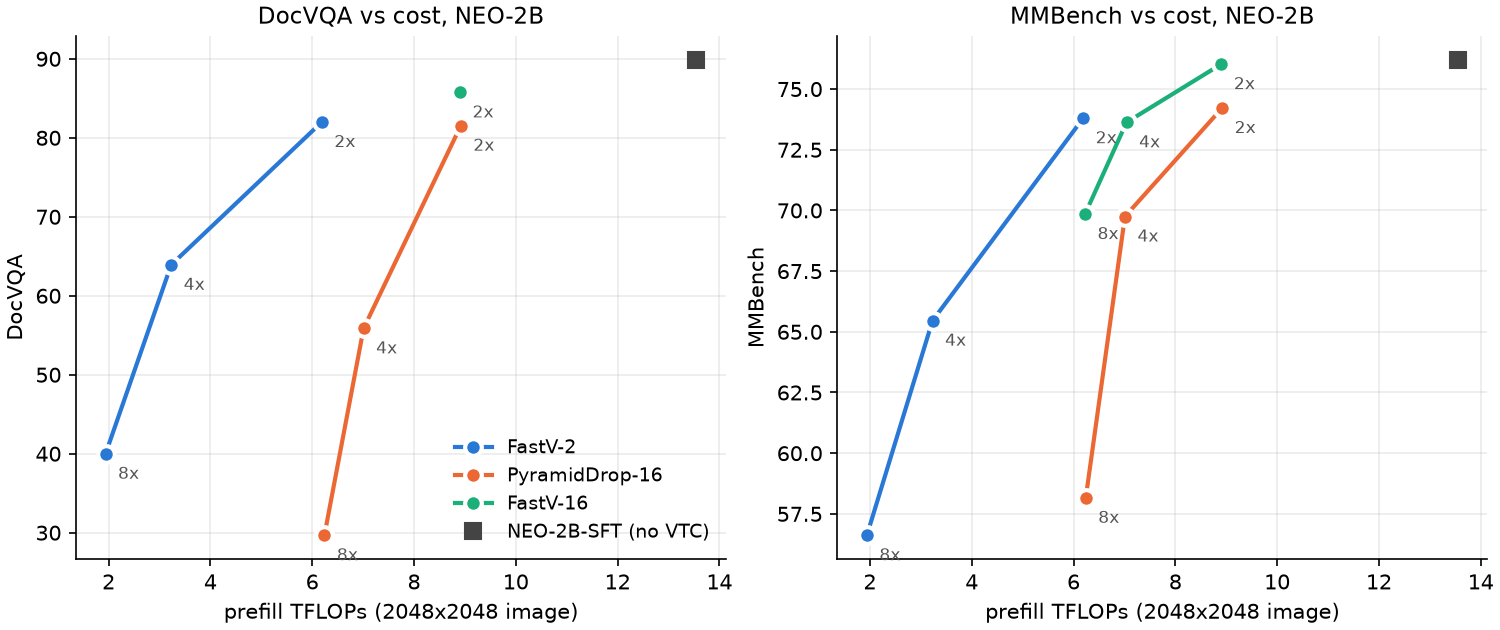
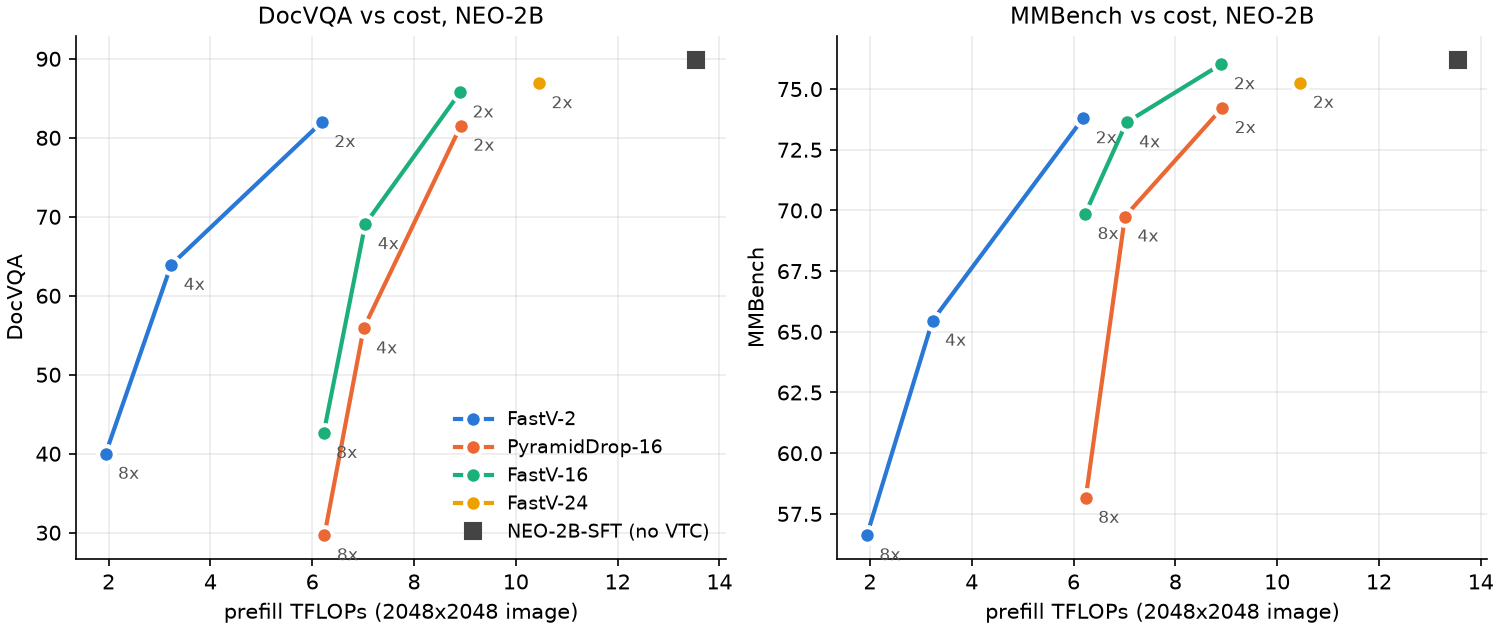
fastv-k16: e002 done (4x/8x DocVQA 69.07/42.63, 23/24 >= PDrop-16), e003 done (K=24 2x: DocVQA 86.92, OCRBench 44.3), FastV-24 flops row, paused

diff --git a/research/experiments/fastv-k16/figures/pareto.py b/research/experiments/fastv-k16/figures/pareto.py
@@ -12,8 +12,8 @@ BASE = {"tf": 13.55, "DocVQA": 89.86, "MMBench": 76.20}
 ROWS = {  # label: (color, [(ratio, tf, DocVQA, MMBench)])
     "FastV-2": ("#2a78d6", [(2, 6.19, 82.00, 73.80), (4, 3.23, 63.92, 65.46), (8, 1.94, 39.99, 56.62)]),
     "PyramidDrop-16": ("#eb6834", [(2, 8.92, 81.54, 74.22), (4, 7.01, 55.87, 69.75), (8, 6.24, 29.68, 58.16)]),
-    "FastV-16": ("#1baf7a", [(2, 8.905, 85.75, 76.03), (4, 7.042, None, 73.63), (8, 6.226, None, 69.85)]),
-    "FastV-24": ("#eda100", []),  # e003, filled when it lands
+    "FastV-16": ("#1baf7a", [(2, 8.905, 85.75, 76.03), (4, 7.042, 69.07, 73.63), (8, 6.226, 42.63, 69.85)]),
+    "FastV-24": ("#eda100", [(2, 10.456, 86.92, 75.26)]),  # e003, 2x only
 }
 
 fig, axes = plt.subplots(1, 2, figsize=(10, 4.2), constrained_layout=True)

diff --git a/research/experiments/fastv-k16/e002.md b/research/experiments/fastv-k16/e002.md
@@ -3,14 +3,14 @@ id: e002
 direction: fastv-k16
 batch: b001
 parent: e001
-status: submitted
+status: done
 created: 2026-11-07T00:00:00
 sha: 83a5b05c4ac2b13097f11764986aff14fd971202
 cluster: ascend
 jobs: [8387101, 8387102]
 config: {models: "NEO-2B-SFT-FastV-layer16-{2,4,8}x", suites: [general, ocr], tier: nextgen}
-metrics: {}
-gpu_hours: null
+metrics: {docvqa_2x: 85.75, docvqa_4x: 69.07, docvqa_8x: 42.63, mmb_2x: 76.03, mmb_4x: 73.63, mmb_8x: 69.85, ocrbench_2x: 61.6, textvqa_2x: 72.58, chartqa_2x: 77.64}
+gpu_hours: 11.77
 ---
 ## Hypothesis
 Moving FastV's single pruning step from layer 2 to layer 16 recovers most of the OCR gap to PyramidDrop-16 at
@@ -35,7 +35,10 @@ Job ids: 8387101 = general array (11 tasks), 8387102 = ocr array (12 tasks), bot
 Logs `logs/fk16-{general,ocr}_<id>_<idx>.log`; outputs in the checkout's `VLMEvalKit/outputs/`.
 
 ## Outcome
-Partial (arrays still in flight; record stays `submitted`, metrics filled when both arrays finish).
+Complete: 23/23 tasks COMPLETED rc=0 (general 8387101 2.56 GPU-h, ocr 8387102 9.21 GPU-h; total 11.77 GPU-h; plus the
+e001 RWQA 2x smoke). Final cells landed 2026-11-07 20:42: 8387102_5 4x DocVQA 69.07 (95 min), _8 8x TextVQA 52.50
+(46 min), _9 8x DocVQA 42.63 (91 min). Longest task 96.4 min (2x DocVQA), well under the 4 h limit.
+Earlier partial notes follow.
 - 8387101_2 (2x / MMMU_DEV_VAL) COMPLETED rc=0, 8.9 min (0.15 GPU-h). MMMU validation 47.56
   (base 48.33, FastV-2 2x 48.67, PDrop-16 2x 47.77). Log `logs/fk16-general_8387101_2.log`.
 - 8387101_0 (2x / MMBench_DEV_EN) COMPLETED rc=0, 23.5 min (0.39 GPU-h). MMBench dev Overall 76.03
@@ -59,18 +62,25 @@ Scores so far (2B, `summarize_table2.py` conventions; FastV-2 / PDrop-16 from th
 | ratio | MMB | MME | MMMU | RWQA | TextVQA | DocVQA | OCRBench | ChartQA | TF |
 |---|---|---|---|---|---|---|---|---|---|
 | 2x | 76.03 [73.80 / 74.22] | 1568.2 [1533.6 / 1536.4] | 47.56 [48.67 / 47.77] | 61.57 [59.61 / 57.90] | 72.58 [54.38 / 67.18] | **85.75** [82.00 / 81.54] | 61.6 [47.1 / 51.2] | 77.64 [79.20 / 63.04] | 8.91 |
-| 4x | 73.63 [65.46 / 69.75] | 1544.5 [1390.0 / 1439.6] | 47.33 [46.56 / 46.44] | 58.69 [55.56 / 51.50] | 66.86 [35.24 / 51.39] | pending [63.92 / 55.87] | 34.1 [16.4 / 20.9] | 53.80 [61.52 / 37.48] | 7.04 |
-| 8x | 69.85 [56.62 / 58.16] | 1471.8 [1160.3 / 1272.9] | 46.44 [43.33 / 45.55] | 55.56 [49.80 / 48.36] | pending [21.31 / 36.65] | pending [39.99 / 29.68] | 15.7 [7.3 / 8.5] | 23.96 [42.36 / 23.52] | 6.23 |
+| 4x | 73.63 [65.46 / 69.75] | 1544.5 [1390.0 / 1439.6] | 47.33 [46.56 / 46.44] | 58.69 [55.56 / 51.50] | 66.86 [35.24 / 51.39] | **69.07** [63.92 / 55.87] | 34.1 [16.4 / 20.9] | 53.80 [61.52 / 37.48] | 7.04 |
+| 8x | 69.85 [56.62 / 58.16] | 1471.8 [1160.3 / 1272.9] | 46.44 [43.33 / 45.55] | 55.56 [49.80 / 48.36] | 52.50 [21.31 / 36.65] | **42.63** [39.99 / 29.68] | 15.7 [7.3 / 8.5] | 23.96 [42.36 / 23.52] | 6.23 |
 
-Pareto PNG (DocVQA, MMBench vs TF; FastV-16 4x/8x DocVQA added when they land): `figures/pareto_2b.png` (`figures/pareto.py`).
+Pareto PNG (DocVQA, MMBench vs TF; all FastV-16 points plus FastV-24 2x from e003): `figures/pareto_2b.png` (`figures/pareto.py`).
 
 Prediction scoring so far:
 - 2x DocVQA 84 +/- 2 (0.6): **hit** (85.75). 2x MMBench 74.5 +/- 1 (0.6): **miss** high (76.03).
 - ChartQA at 4x/8x above PDrop-16's 37.5 / 23.5 (0.6): **hit** (53.80 / 23.96; 8x by only 0.4).
 - Direction call, 2x DocVQA within 1 pt of PDrop-16 or above (0.65): **hit**, +4.21 above.
-- 4x / 8x DocVQA and walltime/GPU-h predictions: pending (8387102_5/_8/_9).
+- 4x DocVQA 68 +/- 4 (0.6): **hit** (69.07). 8x DocVQA 44 +/- 5 (0.6): **hit** (42.63).
+- Walltime under limits, total 9-13 GPU-h (0.8): **hit** (11.77 GPU-h, max task 96 min of 240).
+- Score: 6 of 7 hit; the one miss (2x MMBench) was conservative, FastV-16 was better than predicted.
 
 ## Interpretation
+Final (24/24 cells incl. e001 smoke). FastV-16 >= PyramidDrop-16 on 23 of 24 cells at equal TF (only exception 2x MMMU,
+-0.21). DocVQA margin over PDrop-16 grows with compression: +4.2 / +13.2 / +13.0 at 2x/4x/8x, and FastV-16 also beats the
+4x cheaper FastV-2 on DocVQA at every ratio (+3.8 / +5.1 / +2.6). Direction result: **positive** by the brief's criterion
+(not just within 1 pt; above PDrop-16 at matched cost). Interim text from 20/23 cells kept below.
+
 Interim (20/23 cells). At equal cost (within 0.2 % TF), FastV-16 is >= PyramidDrop-16 on 19 of the 20 finished
 cells; the exception is 2x MMMU (47.56 vs 47.77, -0.21, noise). Smallest positive margins: 8x ChartQA +0.4, 8x MMMU +0.9. At 2x the OCR gap to PDrop-16
 is large (TextVQA +5.4, DocVQA +4.2, OCRBench +10.4, ChartQA +14.6), so the gradual multi-stage schedule is not
@@ -81,3 +91,4 @@ Backlog 4 condition (within 2 pts of PDrop-16 at 2B 2x, or better) is met, so e0
 rather than after the last three cells.
 
 ## Next
+Rows complete. e003 (K=24 at 2x) answers backlog 4. Backlog empty after that; see the direction log.

diff --git a/research/experiments/fastv-k16/e003.md b/research/experiments/fastv-k16/e003.md
@@ -3,14 +3,14 @@ id: e003
 direction: fastv-k16
 batch: b002
 parent: e002
-status: submitted
+status: done
 created: 2026-11-07T19:50:00
 sha: f958d922062284b26a9069439ae7af610a60724e
 cluster: ascend
 jobs: [8390878, 8390879, 8390880, 8390881]
 config: {models: "NEO-2B-SFT-FastV-layer24-2x", compression_layer: 24, ratio: 2x, suites: [general, ocr], tier: "debug-nextgen (flops, smoke) + nextgen (arrays)"}
-metrics: {}
-gpu_hours: null
+metrics: {tflops_2x: 10.456, latency_ms_2x: 438.6, docvqa_2x: 86.92, mmb_2x: 75.26, ocrbench_2x: 44.3, textvqa_2x: 70.03, chartqa_2x: 77.68, rwqa_2x: 63.92}
+gpu_hours: 4.15
 ---
 ## Hypothesis
 Moving FastV's single prune at 2x from layer 16 to layer 24 (of 40) changes 2B DocVQA by at most 1.5 pt, so the
@@ -45,7 +45,42 @@ resolves to the direction checkout, `NEO-2B-SFT-FastV-layer24-2x` has compressio
 keys unchanged, `LLM_METHODS` includes fastv-24.
 
 ## Outcome
+All 9 tasks COMPLETED rc=0 (2026-11-07 19:49-23:34). GPU-h 4.15: F 0.15, S 0.08, general 0.75, ocr 3.18. Longest task
+2x DocVQA 103.8 min (FastV-16: 96.4). FLOPs row `e003_flops.csv` (copied from the checkout's `flops_e003.csv`), FastV-24 row
+appended to `VLMEvalKit/vlmeval/results/flops.csv`. Scores via `summarize_table2.score()` on the output files.
+
+| 2B 2x | MMB | MME | MMMU | RWQA | TextVQA | DocVQA | OCRBench | ChartQA | TF | ms |
+|---|---|---|---|---|---|---|---|---|---|---|
+| FastV-24 (e003) | 75.26 | 1580.2 | 48.56 | 63.92 | 70.03 | **86.92** | 44.3 | 77.68 | 10.456 | 438.6 |
+| FastV-16 (e002) | 76.03 | 1568.2 | 47.56 | 61.57 | 72.58 | 85.75 | **61.6** | 77.64 | 8.905 | 362.6 |
+| PDrop-16 (tex) | 74.22 | 1536.4 | 47.77 | 57.90 | 67.18 | 81.54 | 51.2 | 63.04 | 8.92 | 367.6 |
+| base | 76.20 | 1565.7 | 48.33 | 62.74 | 73.94 | 89.86 | 77.0 | 81.0 | 13.55 | 569.3 |
+
+OCRBench breakdown (K=16 -> K=24): Text Recognition 238 -> 88, Handwritten Math Expr 27 -> 6, Scene-text VQA 148 -> 140,
+Doc VQA 120 -> 114, Key Info Extraction 83 -> 95. Checked the predictions: not a format artifact. K=24 outputs drop or
+garble characters in single-word crops (`grocery` -> `qR`, `EXTRA` -> `EX  A`, `PEAEC` -> `PEC`, `GOOD` -> `goed`;
+mean prediction length 6.1 -> 4.3 chars on Text Recognition rows).
+
+Prediction scoring:
+- TF 10.46 within 0.05 (0.85): **hit** (10.456). Latency 410-440 ms (0.7): **hit** (438.6, top edge).
+- DocVQA 86.5 +/- 1.5 (0.55): **hit** (86.92); gain over FastV-16 <= 1.5 (0.55): **hit** (+1.17).
+- OCRBench 65 +/- 4 (0.55): **miss**, far low (44.3). TextVQA 73.2 +/- 0.8 (0.55): **miss** low (70.03).
+  ChartQA 79 +/- 2 (0.55): **hit** (77.68).
+- General each within 1 pt / MME 20 of FastV-16 (0.75): **miss** (MMB -0.77, MME +12, MMMU +1.00 at the boundary,
+  RWQA +2.35 outside).
+- Walltime and 3.9-4.7 GPU-h (0.8): **hit** (4.15).
+- 6 of 9 hit. The direction of the misses: I assumed later pruning is monotone-better for OCR; it is not.
 
 ## Interpretation
+The layer effect saturates by K=16 on DocVQA (+1.2 for +17 % TF) and reverses on character-level OCR: OCRBench -17.3,
+almost all from Text Recognition and handwritten math, i.e. tiny single-word images where every glyph token matters,
+and TextVQA -2.6. General VQA is flat to slightly up (RWQA +2.4, MMMU +1.0, MMB -0.8). So at 2B 2x, K=16 dominates
+K=24: cheaper (8.9 vs 10.5 TF, 363 vs 439 ms) and better on 3 of 4 OCR benchmarks. One plausible reading (unverified,
+no attention probe was run): by layer 24 the last query attends to fewer, more semantic tokens, so the 1/2 kept set
+skips glyph tokens that later layers still need for exact transcription; DocVQA tolerates that because answers are
+words the model can read from surrounding layout. One run per cell, no repeat measured; the 17-pt OCRBench gap (151 of 300 Text Recognition
+points) is too large to be eval noise, the 1-2 pt general-VQA differences may be.
 
 ## Next
+Backlog empty. K=16 stays the recommended FastV-16 row. A K in {8, 12, 20} sweep at 2x (about 4 GPU-h each, 12 total,
+fits the remaining 13.85) would locate the optimum, but it is outside the brief: user decision.

diff --git a/research/experiments/fastv-k16/RESULTS.md b/research/experiments/fastv-k16/RESULTS.md
@@ -2,8 +2,8 @@
 
 Generated by research-results from 3 records. Do not edit by hand.
 
-| id | batch | parent | status | sha | gpu_hours | tflops_2x | tflops_4x | tflops_8x | latency_ms_2x | latency_ms_4x | latency_ms_8x | rwqa_2x | hypothesis |
-|---|---|---|---|---|---|---|---|---|---|---|---|---|---|
-| e001 | b001 |  | done | 83a5b05c4ac2b13097f11764986aff14fd971202 | 0.23 | 8.905 | 7.042 | 6.226 | 362.6 | 300.8 | 300.1 | 61.57 | FastV-16 at 2B costs almost exactly PyramidDrop-16's prefill FLOPs at every ratio (both keep all 4096 visual |
-| e002 | b001 | e001 | submitted | 83a5b05c4ac2b13097f11764986aff14fd971202 |  |  |  |  |  |  |  |  | Moving FastV's single pruning step from layer 2 to layer 16 recovers most of the OCR gap to PyramidDrop-16 at |
-| e003 | b002 | e002 | submitted | f958d922062284b26a9069439ae7af610a60724e |  |  |  |  |  |  |  |  | Moving FastV's single prune at 2x from layer 16 to layer 24 (of 40) changes 2B DocVQA by at most 1.5 pt, so the |
+| id | batch | parent | status | sha | gpu_hours | tflops_2x | tflops_4x | tflops_8x | latency_ms_2x | latency_ms_4x | latency_ms_8x | rwqa_2x | docvqa_2x | docvqa_4x | docvqa_8x | mmb_2x | mmb_4x | mmb_8x | ocrbench_2x | textvqa_2x | chartqa_2x | hypothesis |
+|---|---|---|---|---|---|---|---|---|---|---|---|---|---|---|---|---|---|---|---|---|---|---|
+| e001 | b001 |  | done | 83a5b05c4ac2b13097f11764986aff14fd971202 | 0.23 | 8.905 | 7.042 | 6.226 | 362.6 | 300.8 | 300.1 | 61.57 |  |  |  |  |  |  |  |  |  | FastV-16 at 2B costs almost exactly PyramidDrop-16's prefill FLOPs at every ratio (both keep all 4096 visual |
+| e002 | b001 | e001 | done | 83a5b05c4ac2b13097f11764986aff14fd971202 | 11.77 |  |  |  |  |  |  |  | 85.75 | 69.07 | 42.63 | 76.03 | 73.63 | 69.85 | 61.6 | 72.58 | 77.64 | Moving FastV's single pruning step from layer 2 to layer 16 recovers most of the OCR gap to PyramidDrop-16 at |
+| e003 | b002 | e002 | done | f958d922062284b26a9069439ae7af610a60724e | 4.15 | 10.46 |  |  | 438.6 |  |  | 63.92 | 86.92 |  |  | 75.26 |  |  | 44.3 | 70.03 | 77.68 | Moving FastV's single prune at 2x from layer 16 to layer 24 (of 40) changes 2B DocVQA by at most 1.5 pt, so the |

diff --git a/research/directions/fastv-k16.md b/research/directions/fastv-k16.md
@@ -5,26 +5,26 @@ title: Does FastV pruning after layer 16 (PyramidDrop's layer) beat FastV-2 and 
 project: vtc
 type: direction
 cluster: ascend
-status: active
+status: paused
 wake: on_jobs
 budget_gpu_hours: 30
-spent_gpu_hours: 10.25
+spent_gpu_hours: 16.15
 max_jobs_in_flight: 8
-jobs:
+jobs: []
+jobs_archived:
+- 8387099
+- 8387100
+- 8387101
 - 8387102
 - 8390878
 - 8390879
 - 8390880
 - 8390881
-jobs_archived:
-- 8387099
-- 8387100
-- 8387101
-last_wake: '2026-11-07T19:50:00-05:00'
+last_wake: '2026-11-09T00:00:00-05:00'
 next_id: 4
 model: null
 effort: null
-wakes: 5
+wakes: 6
 ---
 # Does FastV pruning after layer 16 beat FastV-2 and match PyramidDrop-16 at equal FLOPs?
 
@@ -116,3 +116,11 @@ progressively, so FastV-16 at 8x throws away 7/8 of the tokens at once and may c
   8x MMB 69.85 (58.16). FastV-16 >= PDrop-16 on 19/20 cells at equal TF; FastV-2 only leads on ChartQA. PNG
   figures/pareto_2b.png. Backlog 4 gate met -> e003 (f958d92): K=24 2B 2x, 8390878 flops + 8390879 RWQA smoke
   (debug-nextgen), 8390880 general 0-2 + 8390881 ocr 0-3 (nextgen, afterok smoke). Est. 4.0-4.8 GPU-h.
+- 2026-11-09: all jobs done (8387102 ocr 12/12, e003 8390878-81 9/9, all rc=0). e002 done, 11.77 GPU-h: 4x DocVQA 69.07,
+  8x DocVQA 42.63, 8x TextVQA 52.50 (PDrop-16 55.87 / 29.68 / 36.65). FastV-16 >= PDrop-16 on 23/24 cells at equal TF
+  (only 2x MMMU -0.21): direction **positive**. e003 done, 4.15 GPU-h: FastV-24 2x 10.456 TF / 438.6 ms, DocVQA 86.92 (+1.17
+  vs K=16, saturation hit) but OCRBench 44.3 (-17.3; Text Recognition 238 -> 88, dropped/garbled characters) and TextVQA
+  70.03 (-2.6); K=16 dominates K=24. flops.csv + FastV-24 row; PNG updated. Spent 16.15 / 30 GPU-h.
+  **Paused**: brief settled and backlog empty (9B out of scope by user decision). User decision: (a) mark done and
+  merge rows into the tex; (b) K in {8,12,20} 2B 2x sweep to locate the optimum, about 12 GPU-h, fits the remaining 13.85;
+  (c) reopen 9B FastV-16 rows (about 25-35 GPU-h at 9B walltimes, needs a budget raise).
